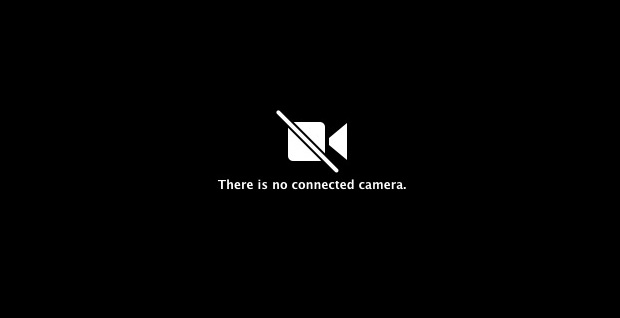
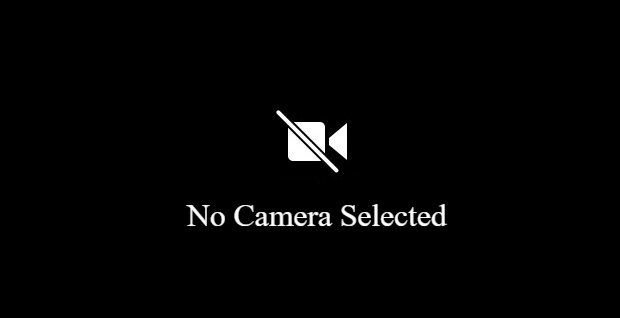
Polished UI

Changed region(s): [[0.3065, 0.6226, 0.7355, 0.7358], [0.3371, 0.566, 0.6742, 0.5943]]

diff --git a/user_interface/scan_face_window.py b/user_interface/scan_face_window.py
@@ -17,11 +17,13 @@ class ScanFaceWindow(tk.Toplevel):
 
     def __init__(self, root: RootWindow, ipc_reader: IPCamReader):
         super().__init__(root)
+        self.protocol("WM_DELETE_WINDOW", self.__on_close)
 
         self.ipc_reader = ipc_reader
         self.database_driver = ImageDatabase()
         self.image_processor = ImageProcessor()
 
+        self.configure(bg="#E2D1F9")
         self.title("Scan Face")
         self.geometry("500x650")
         self.resizable(False, False)
@@ -34,23 +36,27 @@ class ScanFaceWindow(tk.Toplevel):
         self.__image_label.pack(expand=True, fill="both")
 
         # create a frame for the name entry
-        name_frame = tk.Frame(self, width=500, height=50)
+        name_frame = tk.Frame(self, width=500, height=50, bg="#E2D1F9")
         name_frame.pack(padx=10, pady=10, expand=True)
         name_frame.pack_propagate(False)  # prevent the frame from resizing
-        tk.Label(name_frame, text="Name:").pack(side="left")
+        tk.Label(name_frame, text="Name:").pack()
         self.name_entry = tk.Entry(name_frame)
-        self.name_entry.pack(side="left", padx=5)
+        self.name_entry.pack(padx=5)
 
         # create a frame for the buttons
-        button_frame = tk.Frame(self)
+        button_frame = tk.Frame(self, bg="#E2D1F9")
         button_frame.pack(padx=10, pady=10)
 
         # Add a space between the buttons
-        tk.Label(button_frame, text=" ").grid(row=0, column=0)
+        tk.Label(button_frame, text=" ", bg="#E2D1F9").grid(row=0, column=0)
 
         # Change the color of the buttons
-        tk.Button(button_frame, text="Cancel", command=self.destroy, bg="red", fg="white").grid(row=0, column=1, padx=5)
-        tk.Button(button_frame, text="Scan", command=self.__on_scan,bg="green", fg="white").grid(row=0, column=2, padx=5)
+        tk.Button(button_frame, text="Cancel", command=lambda: self.destroy(), bg="red", fg="white").grid(row=0,
+                                                                                                          column=1,
+                                                                                                          padx=5)
+        tk.Button(button_frame, text="Scan", command=lambda: self.__on_scan(), bg="green", fg="white").grid(row=0,
+                                                                                                            column=2,
+                                                                                                            padx=5)
 
         img_display_thread = threading.Thread(target=lambda: self.display_cam_image())
         img_display_thread.daemon = True
@@ -59,14 +65,22 @@ class ScanFaceWindow(tk.Toplevel):
     def display_cam_image(self):
         self.ipc_reader.isFaceMash = True
         while self.ipc_reader.isFaceMash:
-            mat = self.ipc_reader.get_frame()
-            frame = PIL.Image.fromarray(mat)
+            try:
+                mat = self.ipc_reader.get_frame()
+                frame = PIL.Image.fromarray(mat)
 
-            photo = ImageTk.PhotoImage(frame)
-            self.__image_label.configure(image=photo)
-            self.__image_label.image = photo
+                photo = ImageTk.PhotoImage(frame)
+                self.__image_label.configure(image=photo)
+                self.__image_label.image = photo
+
+            except:
+                pass
 
             time.sleep(0.03)
+
+    def __on_close(self):
+        self.ipc_reader.isFaceMash = False
+        self.destroy()
 
     def __on_scan(self):
         def process():

diff --git a/user_interface/root_window.py b/user_interface/root_window.py
@@ -19,6 +19,11 @@ class RootWindow(tk.Tk):
         self.geometry("800x600")
         self.resizable(False, False)
         self.title("Autonomous Monitoring System")
+        self.config(bg="#E2D1F9")
+
+        icon_file = "assets/icon.ico"
+        icon = ImageTk.PhotoImage(Image.open(icon_file))
+        self.iconphoto(True, icon)
 
         self.__render_image_label()
         self.__render_scan_facebtn()
@@ -28,23 +33,23 @@ class RootWindow(tk.Tk):
     def __render_image_label(self):
         image = Image.open("assets/no_cam.jpg")
         photo = ImageTk.PhotoImage(image)
-        self.__imgLabel = tk.Label(self, image=photo)
+        self.__imgLabel = tk.Label(self, image=photo, bg="black", width=510, height=510)
         self.__imgLabel.image = photo
-        self.__imgLabel.place(relx=0.5, rely=0.3, anchor='center')
+        self.__imgLabel.place(relx=0.5, rely=0.4, anchor='center')
 
     def __render_scan_facebtn(self):
         from user_interface.scan_face_window import ScanFaceWindow
-        self.__scanFaceBtn = tk.Button(self, text='Scan Face', command=lambda: ScanFaceWindow(self, self.cam_manager.get_cam(self.selected_cam_index)))
+        self.__scanFaceBtn = tk.Button(self, text='Scan Face', bg="#317773", fg="white", command=lambda: ScanFaceWindow(self, self.cam_manager.get_cam(self.selected_cam_index)))
         self.__scanFaceBtn.place(relx=0.35, rely=0.85)
 
     def __render_add_cambtn(self):
         from user_interface.add_cam_window import AddCamWindow
 
-        self.__addCamBtn = tk.Button(self, text='Add New Camera', command=lambda: AddCamWindow(self))
+        self.__addCamBtn = tk.Button(self, text='Add New Camera', bg="#317773", fg="white", command=lambda: AddCamWindow(self))
         self.__addCamBtn.place(relx=0.44, rely=0.85)
 
     def __render_selectcambtn(self):
-        self.__camList = tk.Button(self, text='Select Camera', command=lambda: self.__show_select_window())
+        self.__camList = tk.Button(self, text='Select Camera', bg="#317773", fg="white", command=lambda: self.__show_select_window())
         self.__camList.place(relx=0.58, rely=0.85)
 
     def __show_select_window(self):

diff --git a/user_interface/select_cam_window.py b/user_interface/select_cam_window.py
@@ -11,6 +11,7 @@ class SelectCamWindow(tk.Toplevel):
         self.selected_cam = None
         self.cameras = []
 
+        self.configure(bg="#E2D1F9")
         self.title("Select Camera")
         self.geometry("300x300")
         self.resizable(False, False)
@@ -28,7 +29,14 @@ class SelectCamWindow(tk.Toplevel):
         self.camera_listbox.pack(fill=tk.BOTH, padx=5, pady=5, expand=True)
 
     def __create_select_camera_button(self):
-        self.select_camera_button = tk.Button(self, text="Select Camera", command=self.__on_select_btn_clicked)
+        self.select_camera_button = tk.Button(self,
+                                              text="Select",
+                                              command=self.__on_select_btn_clicked,
+                                              fg="white",
+                                              bg="#317773",
+                                              disabledforeground="black",
+                                              )
+
         self.select_camera_button.pack(padx=5, pady=5)
         self.select_camera_button.configure(state=tk.DISABLED)
 

diff --git a/computer_vision/utility.py b/computer_vision/utility.py
@@ -38,7 +38,7 @@ class Utility:
             message.attach(image)
 
             # Add a body to the email message
-            body = f"Hi,\n\nA face has been detected on {cam_name} camera at {time_now} and identified as {face_name}.\n\nPlease check the attached image for details.\n\nThanks"
+            body = f"Hi,\n\nA face has been detected on {cam_name} at {time_now} and identified as {face_name}.\n\nPlease check the attached image for details.\n\nThanks"
             text = MIMEText(body)
             message.attach(text)
 
@@ -67,7 +67,7 @@ class Utility:
 
             # Generate a message
             time_now = datetime.datetime.now().strftime('%Y-%m-%d %H:%M:%S')
-            message = f"A face has been detected on {cam_name} camera at {time_now} and identified as {face_name}."
+            message = f"A face has been detected on {cam_name} at {time_now} and identified as {face_name}."
 
             # Initialize the TTS engine
             engine = pyttsx3.init()

diff --git a/user_interface/add_cam_window.py b/user_interface/add_cam_window.py
@@ -7,6 +7,7 @@ class AddCamWindow(tk.Toplevel):
         super().__init__(root)
         self.root_window = root
 
+        self.configure(bg="#E2D1F9")
         self.title("Add Camera")
         self.geometry("300x350")
         self.resizable(False, False)
@@ -65,7 +66,7 @@ class AddCamWindow(tk.Toplevel):
         self.stream_entry.grid(row=6, column=1, padx=5, pady=5)
 
     def __create_add_camera_button(self):
-        add_camera_button = tk.Button(self, text="Add Camera", command=self.__add_camera_action)
+        add_camera_button = tk.Button(self, text="Add Camera", command=self.__add_camera_action, fg="white", bg="#317773")
         add_camera_button.grid(row=7, column=1, padx=5, pady=5, sticky="n")
 
     def __add_camera_action(self):
